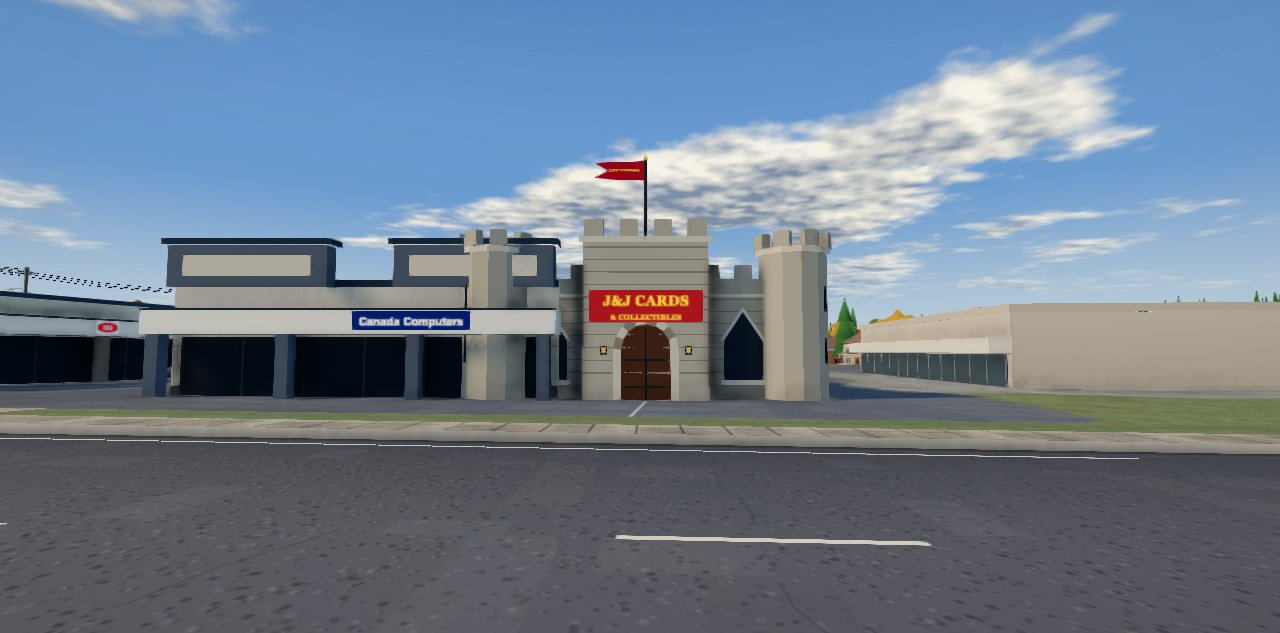
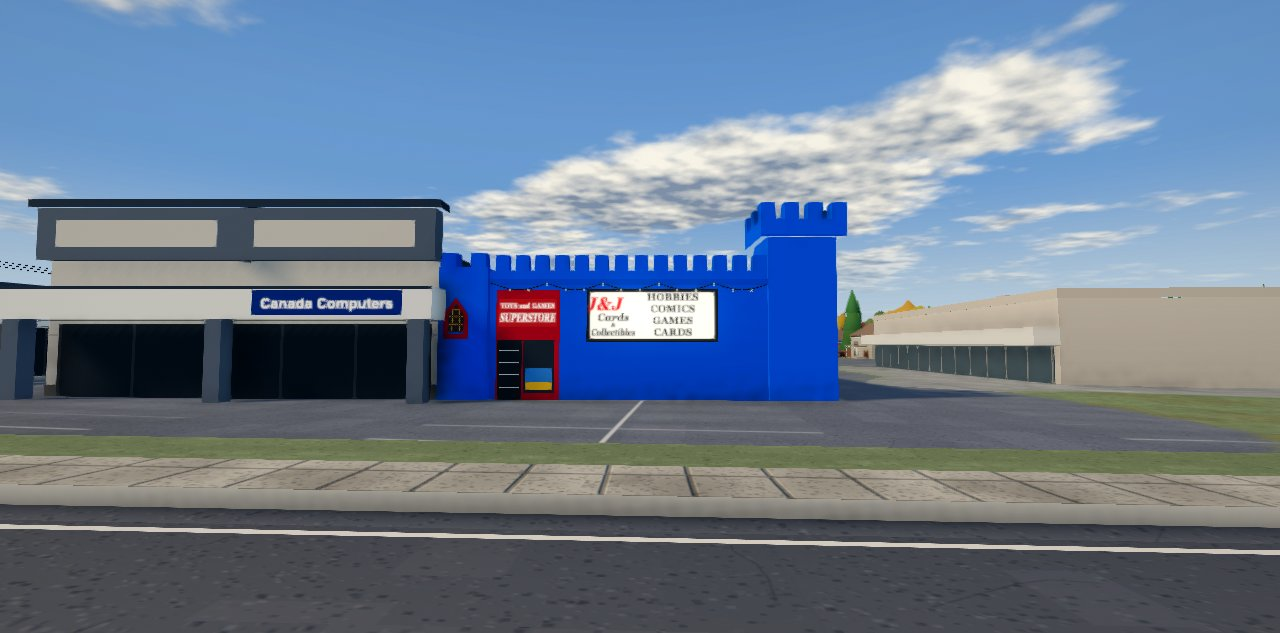
Auto KW v91: J&J Cards from the photo -- the little BLUE castle on its Weber St end: battlements, the short tower's red pointed window, the tall corner tower, TOYS and GAMES SUPERSTORE, the HOBBIES COMICS GAMES CARDS board, string lights; Canada Computers stops at its wall
Claude-Session: https://claude.ai/code/session_01YSHCERsrT39mMjN62yCKhJ

diff --git a/apps/autokw/src/kwlandmarks2.js b/apps/autokw/src/kwlandmarks2.js
@@ -111,6 +111,38 @@ function flatten(city, pts, ext = false) {
   return hit.size;
 }
 
+/**
+ * Trim the boxes beside a footprint drawn here back to its walls: a box whose
+ * centre is outside an edge but that reaches more than 0.3 m past it, with an
+ * axis along the edge's normal, is shortened on that axis to stop at the wall.
+ */
+function trimAt(city, pts) {
+  const [cx, cz] = centroid(pts), out = [];
+  for (const o of city.buildingsNear(cx, cz, 60)) {
+    if (o.h <= 0 || inPoly(pts, o.x, o.z)) continue;
+    for (const e of edges(pts)) {
+      if (e.L < 6) continue;
+      const nx = -e.nx, nz = -e.nz;                                   // into the footprint
+      const dc = (o.x - e.mx) * nx + (o.z - e.mz) * nz;
+      if (dc >= 0) continue;
+      // only a box beside this wall, not one off past its ends
+      const along = (o.x - e.mx) * e.ux + (o.z - e.mz) * e.uz;
+      if (Math.abs(along) > e.L / 2 + Math.max(o.w, o.d) / 2) continue;
+      const c = Math.cos(o.rot), sn = Math.sin(o.rot);
+      const aw = c * nx + sn * nz, ad = -sn * nx + c * nz;
+      const useW = Math.abs(aw) > 0.97, useD = Math.abs(ad) > 0.97;
+      if (!useW && !useD) continue;
+      const half = useW ? o.w / 2 : o.d / 2, over = dc + half;
+      if (over <= 0.3 || over > half) continue;
+      const cut = over + 0.05;
+      if (useW) o.w -= cut; else o.d -= cut;
+      o.x -= nx * cut / 2; o.z -= nz * cut / 2;
+      out.push([o.kw && o.kw.name || '?', +cut.toFixed(2)]);
+    }
+  }
+  return out;
+}
+
 /** After prepSights: flatten the boxes; buildLandmarks2 is a landmarks.js extra of its own. */
 export function prepLandmarks2(city, data) {
   D = data;
@@ -123,6 +155,9 @@ export function prepLandmarks2(city, data) {
   // window.__noBiz: round six off (kwbiz.js: the new footprints stay boxes, the old signs come back)
   if (typeof window !== 'undefined' && window.__noBiz) { BIZ_ON = false; D = { b: { ...D.b } }; for (const k of BIZ_KEYS) delete D.b[k]; }
   for (const k of Object.keys(D.b)) STATS.skipped += flatten(city, D.b[k].p, ROUND5.includes(k) || ROUND7.includes(k) || BIZ_KEYS.includes(k));
+  // J&J: Canada Computers' importer box (its L-shaped outline's rectangle) runs 3.4 m
+  // through J&J's party wall, and its strip canopy over J&J's front; stop it at the wall
+  if (D.b.jj) STATS.jjTrim = trimAt(city, ccw(D.b.jj.p));
   // the King St skywalk is one of kwsights' `king` blocks (building=bridge):
   // meshKing would draw it on the road; it is drawn up in the air here instead
   const S = sightsData();
@@ -2420,137 +2455,130 @@ function catalyst(kit, ctx) {
 // the extra
 // ---------------------------------------------------------------------------------------
 // ---------------------------------------------------------------------------------------
-// J&J CARDS & COLLECTIBLES, 230 Weber St N, Waterloo -- the little castle
+// J&J CARDS & COLLECTIBLES, 230 Weber St N, Waterloo -- the little blue castle
 // ---------------------------------------------------------------------------------------
-// The Schill brothers' card, comic and game shop (35 years and counting), in the
-// one-storey building on Weber St N that looks like a little castle: grey
-// stone walls under battlements, round turrets at the corners, a gatehouse
-// over the arched door with a pennant over it, shop windows under pointed
-// heads either side, arrow slits down the sides. The OSM footprint (30 x 16
-// m); the look is from the owner's memory of it, not a survey -- proportions
-// and colours estimated.
+// The Schill brothers' card, comic and game shop (35 years and counting), from
+// the Explore Waterloo photograph (2023) of its front: a one-storey block
+// painted royal blue, a crenellated false front on the short NW end on Weber
+// St (OSM: Canada Computers shares the long SW wall, its front flush to the
+// photo's left), a short tower at the SW corner with a small red-framed
+// pointed window, a taller square tower with an overhanging crenellated cap at
+// the NE corner; the red-framed entrance "TOYS and GAMES SUPERSTORE" by the
+// short tower, the big white sign "J&J Cards & Collectibles | HOBBIES COMICS
+// GAMES CARDS" mid-front, a red-framed window by the tall tower, a string of
+// lights under the battlements. Positions are fractions of the front measured
+// off the photo, laid on OSM's 16 m end; heights from a 2.4 m door.
 function jjCastle(kit, ctx) {
-  const ST = C('#aaa59a'), ST2 = C('#8c877d'), ST3 = C('#c9c4b8'), DK = C('#1f2125'), WD = C('#5a3a22'), GL = C('#2a3138'),
-    RD = C('#9e1b22'), GD = C('#d8b04a'), IRON = C('#2b2b2b');
+  const BL = C('#1d5ec6'), BL2 = shade(C('#1d5ec6'), 0.82), BL3 = shade(C('#1d5ec6'), 1.12), RED = C('#a3191c'),
+    DK = C('#1c1f24'), GL = C('#283038'), ROOF = C('#4b4a47'), BULB = C('#fff1c4'), WIRE = C('#202020');
   const pts = ccw(D.b.jj.p);
-  const r = block(kit, ctx, pts, {
-    h: 5.4, wall: ST, trim: ST3, parapet: 0, roof: C('#4b4a47'), plinth: [0.7, ST2], glass: GL,
-  });
-  const B = r.B, yT = r.yTop, o = obb(pts);
-  const front = frontEdge(ctx.city, r.E, /^Weber Street/, 10, 70) || r.E.reduce((a, e) => (e.L > a.L ? e : a));
-  STATS.jjFront = [Math.round(front.mx), Math.round(front.mz), +front.nx.toFixed(2), +front.nz.toFixed(2)];
-  // stone courses: darker lines every 0.6 m, so the wall reads as blocks, not render
-  for (const e of r.E) {
-    if (e.L < 3) continue;
-    const N = [e.nx, 0, e.nz], gy = gyOf(e);
-    for (let y = gy + 1.3; y < yT - 0.2; y += 0.62) B4(B, e, 0, e.L, y, y + 0.06, 0.03, N, ST2);
-  }
-  // the battlements: a parapet and merlons along every wall (crenels between)
-  const merlons = (e, y, h, w = 0.85, sp = 1.7, dep = 0.55) => {
-    const rot = Math.atan2(e.uz, e.ux), n = Math.max(1, Math.floor(e.L / sp)), pad = (e.L - (n - 1) * sp) / 2;
-    for (let i = 0; i < n; i++) {
-      const p = e.at(pad + i * sp, 0, -dep / 2 + 0.05);
-      B.box(p[0], y, p[2], w, h, dep, rot, i % 2 ? ST : shade(ST, 0.95));
-    }
-  };
-  for (const e of r.E) {
-    if (e.L < 1) continue;
-    const rot = Math.atan2(e.uz, e.ux), m = e.at(e.L / 2, 0, -0.25);
-    B.box(m[0], yT, m[2], e.L, 0.75, 0.55, rot, ST);                 // the parapet wall
-    B4(B, e, 0, e.L, yT - 0.18, yT, 0.12, [e.nx, 0, e.nz], ST3);    // a string course under it
-    merlons(e, yT + 0.75, 0.75);
-  }
-  // round turrets at the box's four corners, crenellated
-  const ux = o.ux, uz = o.uz, vx = -o.uz, vz = o.ux;
-  for (const [a, b] of [[-1, -1], [1, -1], [1, 1], [-1, 1]]) {
-    const x = o.x + ux * a * (o.hu - 0.4) + vx * b * (o.hv - 0.4), z = o.z + uz * a * (o.hu - 0.4) + vz * b * (o.hv - 0.4);
-    const gy = T(x, z) - 0.6, R = 1.75, top = yT + 2.2;
-    B.prism(x, gy, z, R, top - gy, 12, ST);
-    B.prism(x, top - 0.25, z, R + 0.2, 0.3, 12, ST3);                 // the corbel ring
-    disc(B, x, top + 0.04, z, R + 0.2, 12, C('#4b4a47'));
-    for (let i = 0; i < 8; i++) {
-      const ang = (i / 8) * Math.PI * 2, px = x + Math.cos(ang) * (R - 0.05), pz = z + Math.sin(ang) * (R - 0.05);
-      B.box(px, top + 0.05, pz, 0.8, 0.8, 0.45, ang + Math.PI / 2, ST);
-    }
-    // an arrow slit up each turret, facing out from the corner
-    const sx = Math.sign(a) * ux + Math.sign(b) * vx, sz = Math.sign(a) * uz + Math.sign(b) * vz, sl = Math.hypot(sx, sz);
-    const nx = sx / sl, nz = sz / sl;
-    for (const yy of [gy + 2.4, gy + 5.0]) {
-      const c = [x + nx * (R + 0.02), z + nz * (R + 0.02)];
-      const e = edgeOf([c[0] + nz * 0.5, c[1] - nx * 0.5], [c[0] - nz * 0.5, c[1] + nx * 0.5], nx, nz);
-      B4(B, e, 0.38, 0.62, yy, yy + 1.3, 0.02, [nx, 0, nz], DK);
-    }
-    ctx.solids.push({ x, z, r: R, y0: gy - 1, y1: top + 0.85 });
-  }
-  // the front: a gatehouse over an arched door, shop windows either side
-  const e = front, N = [e.nx, 0, e.nz], gy = gyOf(e), tm = e.L / 2, rot = Math.atan2(e.uz, e.ux);
-  const gw = 6.2, gd = 1.6, gh = yT + 2.6;
-  {
-    const c = e.at(tm, 0, gd / 2 - 0.3);
-    B.box(c[0], gy - 0.6, c[2], gw, gh - gy + 0.6, gd, rot, shade(ST, 1.04));
-    const ge = edgeOf(e.at(tm - gw / 2, 0, gd - 0.3).filter((_, i) => i !== 1), e.at(tm + gw / 2, 0, gd - 0.3).filter((_, i) => i !== 1), e.nx, e.nz);
-    for (let y = gy + 1.3; y < gh - 0.3; y += 0.62) B4(B, ge, 0, ge.L, y, y + 0.06, 0.03, N, ST2);
-    const top = e.at(tm, 0, gd / 2 - 0.3);
-    B.box(top[0], gh - 0.2, top[2], gw + 0.4, 0.3, gd + 0.4, rot, ST3);
-    for (let i = 0; i < 4; i++) {           // its merlons, front and the two sides
-      const p = ge.at(0.55 + i * (gw - 1.1) / 3, 0, -0.2);
-      B.box(p[0], gh + 0.1, p[2], 0.9, 0.9, 0.5, rot, ST);
-    }
-    for (const s of [-1, 1]) {
-      const p = e.at(tm + s * (gw / 2 - 0.25), 0, gd / 2 - 0.3);
-      B.box(p[0], gh + 0.1, p[2], 0.5, 0.9, 0.9, rot, ST);
-    }
-    ctx.solids.push({ x: c[0], z: c[2], hw: gw / 2, hd: gd / 2, rot, y0: gy - 1, y1: gh + 1 });
-    // the arched door: dark oak in two leaves, iron straps, a stone arch round it
-    const dw = 2.4, dh = 2.5, rr = dw / 2;
-    B4(B, ge, ge.L / 2 - dw / 2, ge.L / 2 + dw / 2, gy, gy + dh, 0.03, N, WD);
-    for (let k = 0; k < 8; k++) {
-      const a0 = Math.PI * k / 8, a1 = Math.PI * (k + 1) / 8, t = ge.L / 2;
-      B.tri(ge.at(t, gy + dh, 0.03), ge.at(t + Math.cos(a0) * rr, gy + dh + Math.sin(a0) * rr, 0.03), ge.at(t + Math.cos(a1) * rr, gy + dh + Math.sin(a1) * rr, 0.03), N, WD);
-      B.quad(ge.at(t + Math.cos(a0) * rr, gy + dh + Math.sin(a0) * rr, 0.06), ge.at(t + Math.cos(a1) * rr, gy + dh + Math.sin(a1) * rr, 0.06),
-        ge.at(t + Math.cos(a1) * (rr + 0.4), gy + dh + Math.sin(a1) * (rr + 0.4), 0.06), ge.at(t + Math.cos(a0) * (rr + 0.4), gy + dh + Math.sin(a0) * (rr + 0.4), 0.06), N, U0, k % 2 ? ST3 : ST2);
-    }
-    for (const s of [-1, 1]) B4(B, ge, ge.L / 2 + s * (rr + 0.2) - 0.2, ge.L / 2 + s * (rr + 0.2) + 0.2, gy - 0.1, gy + dh, 0.06, N, ST3);
-    B4(B, ge, ge.L / 2 - 0.03, ge.L / 2 + 0.03, gy, gy + dh + rr - 0.05, 0.05, N, DK);
-    for (const y of [gy + 0.6, gy + 1.9]) B4(B, ge, ge.L / 2 - dw / 2 + 0.1, ge.L / 2 + dw / 2 - 0.1, y, y + 0.1, 0.05, N, IRON);
-    // the shop's name over the arch, gold on a red board
-    letters(kit, ctx, ge, ge.L / 2, gy + dh + rr + 1.15, 5.6, 1.05, 'J&J CARDS', { bg: '#8e1a20', fg: '#f2cf63', font: SERIF, wt: '700', k: 0.66, px: 30, off: 0.08 });
-    letters(kit, ctx, ge, ge.L / 2, gy + dh + rr + 0.35, 5.6, 0.5, '& COLLECTIBLES', { bg: '#8e1a20', fg: '#f2cf63', font: SERIF, wt: '700', k: 0.7, px: 30, off: 0.08 });
-    // the pennant over the gatehouse: a pole and a swallow-tailed red and gold flag
-    const fp = e.at(tm, 0, gd / 2 - 0.3);
-    B.prism(fp[0], gh + 0.1, fp[2], 0.06, 4.2, 6, IRON);
-    B.cone(fp[0], gh + 4.3, fp[2], 0.14, 0.3, 6, GD);
-    const fy = gh + 3.2, fl = 1.9, fx = e.ux, fz = e.uz;
-    const q = (t, y) => [fp[0] + fx * t, y, fp[2] + fz * t];
-    for (const sgn of [1, -1]) {
-      const nn = [e.nx * sgn, 0, e.nz * sgn];
-      B.quad(q(0.06, fy), q(fl, fy + 0.05), q(fl, fy + 0.95), q(0.06, fy + 1.0), nn, U0, RD);
-      B.tri(q(fl, fy + 0.05), q(fl + 0.7, fy + 0.15), q(fl, fy + 0.5), nn, RD);
-      B.tri(q(fl, fy + 0.5), q(fl + 0.7, fy + 0.9), q(fl, fy + 0.95), nn, RD);
-      B.quad(q(0.06, fy + 0.42), q(fl, fy + 0.45), q(fl, fy + 0.58), q(0.06, fy + 0.6), nn, U0, GD);
-    }
-    // lanterns either side of the door
-    for (const s of [-1, 1]) {
-      const p = ge.at(ge.L / 2 + s * (rr + 0.85), gy + 2.2, 0.25);
-      B.box(p[0], p[1], p[2], 0.3, 0.45, 0.3, rot, IRON);
-      B.box(p[0], p[1] + 0.08, p[2], 0.22, 0.3, 0.32, rot, C('#f0c060'));
-    }
-  }
-  // shop windows under pointed heads either side of the gatehouse
-  for (const s of [-1, 1]) for (let k = 0; k < 2; k++) {
-    const t = tm + s * (gw / 2 + 1.9 + k * 3.2);
-    if (t < 2.8 || t > e.L - 2.8) continue;
-    lancet(B, e, t, gy + 0.9, 2.0, 2.0, GL, ST3);
-    B4(B, e, t - 1.15, t + 1.15, gy + 0.7, gy + 0.9, 0.1, N, ST3);
-  }
-  // arrow slits down the other walls
+  const r = block(kit, ctx, pts, { h: 5.0, wall: BL, trim: BL3, parapet: 0, roof: ROOF, glass: GL });
+  const B = r.B, yT = r.yTop;
+  // the front is the short NW end on Weber St: Canada Computers shares the long SW wall and its
+  // front runs on flush to the photo's left (the SW)
+  const e = frontEdge(ctx.city, r.E, /^Weber Street/, 10, 70) || facing(r.E, -0.86, 0.52, 10);
+  STATS.jjFront = [Math.round(e.mx), Math.round(e.mz), +e.nx.toFixed(2), +e.nz.toFixed(2), +e.L.toFixed(1)];
+  const N = [e.nx, 0, e.nz], gy = gyOf(e, 3), rot = Math.atan2(e.uz, e.ux), L = e.L;
+  // m = metres along the photo's ~20.3 m front from its left (SW) end -> t along this edge;
+  // horizontal sizes scale with it (S), heights do not (the banner photo's aspect is squashed)
+  const leftAt0 = e.at(0, 0, 0)[2] < e.at(L, 0, 0)[2];
+  const S = L / 20.3, tc = (m) => (leftAt0 ? m * S : L - m * S), ta = tc;
+  const span = (t0, t1) => [Math.min(t0, t1), Math.max(t0, t1)];
+  // the other walls: a plain blue parapet, dark coping
   for (const w of r.E) {
-    if (w === e || w.L < 6) continue;
-    const n = Math.floor((w.L - 4) / 3.4);
-    for (let i = 0; i < n; i++) {
-      const t = 2 + (w.L - 4) * (i + 0.5) / n;
-      B4(B, w, t - 0.13, t + 0.13, gyOf(w) + 2.0, gyOf(w) + 3.4, 0.03, [w.nx, 0, w.nz], DK);
-      B4(B, w, t - 0.45, t + 0.45, gyOf(w) + 2.65, gyOf(w) + 2.77, 0.035, [w.nx, 0, w.nz], DK);
+    if (w === e || w.L < 0.5) continue;
+    const m = w.at(w.L / 2, 0, -0.2);
+    B.box(m[0], yT, m[2], w.L, 0.5, 0.4, Math.atan2(w.uz, w.ux), BL);
+    B4(B, w, 0, w.L, yT + 0.5, yT + 0.58, 0.02, [w.nx, 0, w.nz], BL2);
+  }
+  // the front's battlements: a band and merlons every 1.1 m
+  { const m = e.at(L / 2, 0, -0.2); B.box(m[0], yT, m[2], L, 0.35, 0.4, rot, BL); }
+  B4(B, e, 0, L, yT - 0.25, yT, 0.06, N, BL2);
+  const [m0, m1] = leftAt0 ? [2.5, L - 3.1] : [3.1, L - 2.5];
+  for (let i = 0; i < 14; i++) {
+    const p = e.at(m0 + (m1 - m0) * i / 13, 0, -0.18);
+    B.box(p[0], yT + 0.35, p[2], 0.55, 0.65, 0.42, rot, BL);
+  }
+  // the short tower at the NW end, its little pointed window framed in red
+  {
+    const [t0, t1] = span(ta(0), ta(2.5)), c = e.at((t0 + t1) / 2, 0, 0.0), h = yT + 0.45;
+    B.box(c[0], gy - 0.5, c[2], 2.5 * S, h - gy + 0.5, 0.7, rot, BL);
+    for (const k of [-0.75 * S, 0.75 * S]) { const q = e.at((t0 + t1) / 2 + k, 0, 0.0); B.box(q[0], h, q[2], 0.6, 0.6, 0.7, rot, BL); }
+    const tw = (t0 + t1) / 2 + (leftAt0 ? -0.25 : 0.25);
+    const fe = edgeOf(e.at(t0, 0, 0.36).filter((_, i) => i !== 1), e.at(t1, 0, 0.36).filter((_, i) => i !== 1), e.nx, e.nz);
+    const tl = tw - t0;
+    lancet(B, fe, tl, gy + 2.75, 0.62, 0.7, C('#3a2a1a'), RED);
+    for (const k of [-0.15, 0.15]) B4(B, fe, tl + k - 0.02, tl + k + 0.02, gy + 2.75, gy + 3.85, 0.07, N, C('#c9a04a'));
+    for (const y of [3.05, 3.35, 3.65]) B4(B, fe, tl - 0.31, tl + 0.31, gy + y, gy + y + 0.04, 0.07, N, C('#c9a04a'));
+    B4(B, fe, tl - 0.5, tl - 0.31, gy + 2.5, gy + 3.5, 0.06, N, RED);
+    B4(B, fe, tl + 0.31, tl + 0.5, gy + 2.5, gy + 3.5, 0.06, N, RED);
+  }
+  // the entrance: TOYS and GAMES SUPERSTORE over a red frame round the door and a display window
+  {
+    const [t0, t1] = span(ta(2.85), ta(6.1)), tm = (t0 + t1) / 2;
+    B4(B, e, t0, t1, gy - 0.1, gy + 4.5, 0.04, N, RED);
+    const dt = leftAt0 ? t0 + 0.7 * S : t1 - 0.7 * S, wt = leftAt0 ? t0 + 2.2 * S : t1 - 2.2 * S, ww = 0.8 * S;
+    B4(B, e, dt - 0.5, dt + 0.5, gy, gy + 2.45, 0.07, N, DK);
+    for (const y of [0.5, 1.0, 1.5, 2.0]) B4(B, e, dt - 0.4, dt + 0.4, gy + y, gy + y + 0.05, 0.09, N, C('#d8d8d8'));
+    B4(B, e, wt - ww, wt + ww, gy + 0.3, gy + 2.45, 0.07, N, GL);
+    B4(B, e, wt - ww + 0.1, wt + ww - 0.1, gy + 0.4, gy + 1.3, 0.08, N, C('#4a7fb8'));   // the poster in the window
+    B4(B, e, wt - ww + 0.1, wt + ww - 0.1, gy + 0.4, gy + 0.75, 0.085, N, C('#e2b23d'));
+    const m = ctx.atlas.panel(t1 - t0 - 0.2, 1.15, 36, (q, W, H) => {
+      q.fillStyle = '#8f1215'; q.fillRect(0, 0, W, H);
+      q.fillStyle = '#ffffff'; q.textAlign = 'center'; q.textBaseline = 'middle';
+      q.font = `600 ${H * 0.26}px ${SERIF}`; q.fillText('TOYS and GAMES', W / 2, H * 0.27, W * 0.92);
+      q.font = `italic 800 ${H * 0.42}px ${SERIF}`; q.fillText('SUPERSTORE', W / 2, H * 0.68, W * 0.94);
+    });
+    onWall(kit, e, tm, gy + 3.55, m, 0.1);
+  }
+  // the big sign: white, black-edged, J&J in red, the four words in black
+  {
+    const t = tc(10.85), sw = 6.6 * S, sg = ctx.atlas.panel(sw, 2.1, 40, (q, W, H) => {
+      q.fillStyle = '#1a1a1a'; q.fillRect(0, 0, W, H);
+      q.fillStyle = '#fbfbf7'; q.fillRect(H * 0.05, H * 0.05, W - H * 0.1, H * 0.9);
+      q.textBaseline = 'middle'; q.textAlign = 'center';
+      q.fillStyle = '#c4161c'; q.font = `italic 800 ${H * 0.36}px ${SERIF}`; q.fillText('J&J', W * 0.13, H * 0.3);
+      q.fillStyle = '#111111'; q.font = `italic 600 ${H * 0.2}px ${SERIF}`;
+      q.fillText('Cards', W * 0.2, H * 0.55); q.font = `italic 600 ${H * 0.12}px ${SERIF}`; q.fillText('&', W * 0.2, H * 0.69);
+      q.font = `italic 600 ${H * 0.19}px ${SERIF}`; q.fillText('Collectibles', W * 0.2, H * 0.84, W * 0.34);
+      q.font = `900 ${H * 0.2}px ${SERIF}`;
+      ['HOBBIES', 'COMICS', 'GAMES', 'CARDS'].forEach((w, i) => q.fillText(w, W * 0.66, H * (0.16 + i * 0.225), W * 0.58));
+    });
+    onWall(kit, e, t, gy + 3.45, sg, 0.12);
+    B4(B, e, t - sw / 2 - 0.05, t + sw / 2 + 0.05, gy + 2.37, gy + 4.53, 0.1, N, C('#1a1a1a'));
+  }
+  // the red-framed window by the SE tower
+  {
+    const t = tc(18.25);
+    B4(B, e, t - 1.1 * S, t + 1.1 * S, gy + 1.65, gy + 3.05, 0.04, N, RED);
+    B4(B, e, t - 1.1 * S + 0.12, t + 1.1 * S - 0.12, gy + 1.75, gy + 2.95, 0.07, N, GL);
+    B4(B, e, t - 0.03, t + 0.03, gy + 1.75, gy + 2.95, 0.08, N, RED);
+  }
+  // the SE tower: a square shaft at the corner, a wider crenellated cap
+  {
+    const tt = leftAt0 ? L - 1.4 : 1.4, c = e.at(tt, 0, -1.2), top = yT + 1.75;
+    B.box(c[0], gy - 0.5, c[2], 2.8, top - gy + 0.5, 2.8, rot, BL);
+    B.box(c[0], top - 0.05, c[2], 3.5, 0.7, 3.4, rot, BL);
+    B4(B, edgeOf(e.at(tt - 1.75, 0, 0.5).filter((_, i) => i !== 1), e.at(tt + 1.75, 0, 0.5).filter((_, i) => i !== 1), e.nx, e.nz), 0, 3.5, top - 0.05, top + 0.05, 0.01, N, BL2);
+    const ux = e.ux, uz = e.uz, vx = -e.nx, vz = -e.nz;   // along, inward
+    for (const [a, b2] of [[-1.45, -1.4], [-0.48, -1.4], [0.48, -1.4], [1.45, -1.4], [-1.45, 1.4], [1.45, 1.4], [-1.45, 0], [1.45, 0], [0, 1.4]]) {
+      const x = c[0] + ux * a + vx * (b2 + 0), z = c[2] + uz * a + vz * (b2 + 0);
+      B.box(x, top + 0.65, z, 0.6, 0.7, 0.6, rot, BL);
+    }
+    ctx.solids.push({ x: c[0], z: c[2], hw: 1.4, hd: 1.4, rot, y0: gy - 1, y1: top + 1.35 });
+  }
+  // the string of lights under the battlements, sagging between hooks
+  {
+    const [a0, a1] = span(ta(2.6), ta(16.9));
+    const hooks = Math.max(2, Math.round((a1 - a0) / 2.4));
+    for (let i = 0; i < hooks; i++) {
+      const s0 = a0 + (a1 - a0) * i / hooks, s1 = a0 + (a1 - a0) * (i + 1) / hooks;
+      for (let k = 0; k < 6; k++) {
+        const f0 = k / 6, f1 = (k + 1) / 6, y0 = yT - 0.18 - 0.28 * Math.sin(Math.PI * f0), y1 = yT - 0.18 - 0.28 * Math.sin(Math.PI * f1);
+        const p0 = e.at(s0 + (s1 - s0) * f0, y0, 0.14), p1 = e.at(s0 + (s1 - s0) * f1, y1, 0.14);
+        B.quad(p0, p1, [p1[0], p1[1] + 0.03, p1[2]], [p0[0], p0[1] + 0.03, p0[2]], N, U0, WIRE);
+        if (k % 2 === 0) B.box(p0[0], p0[1] - 0.09, p0[2], 0.08, 0.1, 0.08, rot, BULB);
+      }
     }
   }
 }
@@ -2657,7 +2685,7 @@ export function landmarks2Map() {
     m(at('claygl'), false, 'Canadian Clay & Glass Gallery', 'The Canadian Clay and Glass Gallery, 25 Caroline St N (Patkau Architects, 1993)'),
     m(at('wmrc'), false, 'Waterloo Memorial Rec Complex', 'The Waterloo Memorial Recreation Complex, 101 Father David Bauer Dr — the Siskins\' rink and the pool'),
     m(at('galtarena'), false, 'Galt Arena Gardens', 'Galt Arena Gardens, 98 Shade St (1922) — one of the oldest arenas still in use in Canada'),
-    m(at('jj'), false, 'J&J Cards & Collectibles', 'J&J Cards & Collectibles, 230 Weber St N — the little castle: cards, comics and games'),
+    m(at('jj'), false, 'J&J Cards & Collectibles', 'J&J Cards & Collectibles, 230 Weber St N — the little blue castle: hobbies, comics, games and cards'),
     m(at('zion'), false, 'Zion (32 Weber St W)', 'Zion Evangelical, 32 Weber St W (1893) — Zion United until 2015; the tall tower with the four green-capped turrets'),
     m(at('stjohn'), false, 'St. John the Evangelist', 'St. John the Evangelist Anglican Church, 23 Water St N — red brick and a slate broach spire'),
     m(at('stpaul'), false, "St. Paul's Lutheran", "St. Paul's Evangelical Lutheran Church, 137 Queen St S (Jonas Knechtel, 1889) — one of Kitchener's oldest churches"),

diff --git a/apps/autokw/sw.js b/apps/autokw/sw.js
@@ -23,7 +23,7 @@
 // launch to prove it hadn't changed, and PINNED is wrong too: these URLs carry
 // no version, so a bump has to be able to replace them. The map only changes
 // when tools/ re-imports it, and that comes with a bump.
-const CACHE = 'autokw-v90';
+const CACHE = 'autokw-v91';
 const PINNED = ['vendor/three-0.160.0.module.js'];
 const isMapData = (url) => new URL(url).pathname.includes('/apps/autokw/data/');
 const SHELL = ['./', './index.html', './manifest.webmanifest',

diff --git a/apps/autokw/index.html b/apps/autokw/index.html
@@ -681,7 +681,7 @@
     <pre id="bootLog"></pre>
     <div id="loadRotate">Turn sideways to play once it has loaded</div>
     <!-- Bumped once per change, in step with CACHE in sw.js. See CLAUDE.md. -->
-    <div id="build">v90</div>
+    <div id="build">v91</div>
     <div id="attrib">Map data © OpenStreetMap contributors (ODbL) · elevation NRCan CDEM / SRTM</div>
   </div>
   <script>

diff --git a/apps/autokw/CLAUDE.md b/apps/autokw/CLAUDE.md
@@ -779,18 +779,23 @@ file and a guide disagree, this file wins.
   1.7], t: [12700, 10285, 6]}`, WCI `{c: [-4492, -2962, 1.7], t: [-4457,
   -2981, 6]}`; `VIEW_INFO_FILE=` (kwshots, new) takes the per-view probe
   from a file.
-- **J&J Cards & Collectibles, the little castle (v90)** (kwlandmarks2.js
-  `jjCastle`, lm2.json `jj` from tools/kw/build_lm2.py, round seven:
-  `ROUND7`, flattened with `ext` like round five). 230 Weber St N, Waterloo,
-  the owner's favourite shop as a kid. Its OSM footprint (30 x 16 m) as grey
-  coursed stone under a parapet and merlons, four round crenellated turrets
-  on the footprint's box corners (solids), a gatehouse on the Weber St end
-  (`frontEdge /^Weber Street/` -- the SHORT west end, STATS.jjFront) over an
-  arched oak door with iron straps, lanterns, J&J CARDS / & COLLECTIBLES
-  gold-on-red in the shared sign atlas, a swallow-tailed pennant, pointed shop
-  windows, arrow slits down the other walls. The look is from the owner's
-  description ("kind of looks like a little castle"), not a photo or survey.
-  No new draws (LmKit's clusters). Shot: docs/landmark-jj.jpg.
+- **J&J Cards & Collectibles, the little blue castle (v90, v91 from the photo)**
+  (kwlandmarks2.js `jjCastle`, lm2.json `jj` from tools/kw/build_lm2.py,
+  round seven: `ROUND7`, flattened with `ext` like round five). 230 Weber St
+  N, Waterloo -- the owner's favourite shop as a kid. From the Explore
+  Waterloo photo (2023): royal blue paint, a crenellated false front on the
+  short NW end on Weber St, a short tower at its SW corner with a little
+  red-framed pointed window, the tall NE tower under an overhanging
+  crenellated cap, the red TOYS and GAMES SUPERSTORE entrance, the white
+  "J&J Cards & Collectibles | HOBBIES COMICS GAMES CARDS" board, a red-framed
+  window, string lights. **The front is the Weber end, not the long SW side:
+  Canada Computers shares that wall** and its front runs on flush to the
+  photo's left. Positions are fractions of the photo's front laid on OSM's
+  16 m end (the banner photo's aspect is squashed; heights from a 2.4 m door).
+  `trimAt` shortens a neighbour's importer box that reaches past a wall
+  drawn here (Canada Computers' L-shaped outline's rectangle ran 3.47 m
+  through J&J, its strip canopy over J&J's door; STATS.jjTrim). No new draws.
+  Shots: docs/landmark-jj.jpg, landmark-jj-weber.jpg.
 - **The big employers' signs: src/kwbiz.js** (the landmarks pass, round six;
   run by kwlandmarks2.js with its LmKit; `build_lm2.py` gained `ot1`, `ot2`,
   `equit`, `christie`, `dare`, `wbrew`, `gore`, `gore2`; docs/biz-day-1.jpg,
